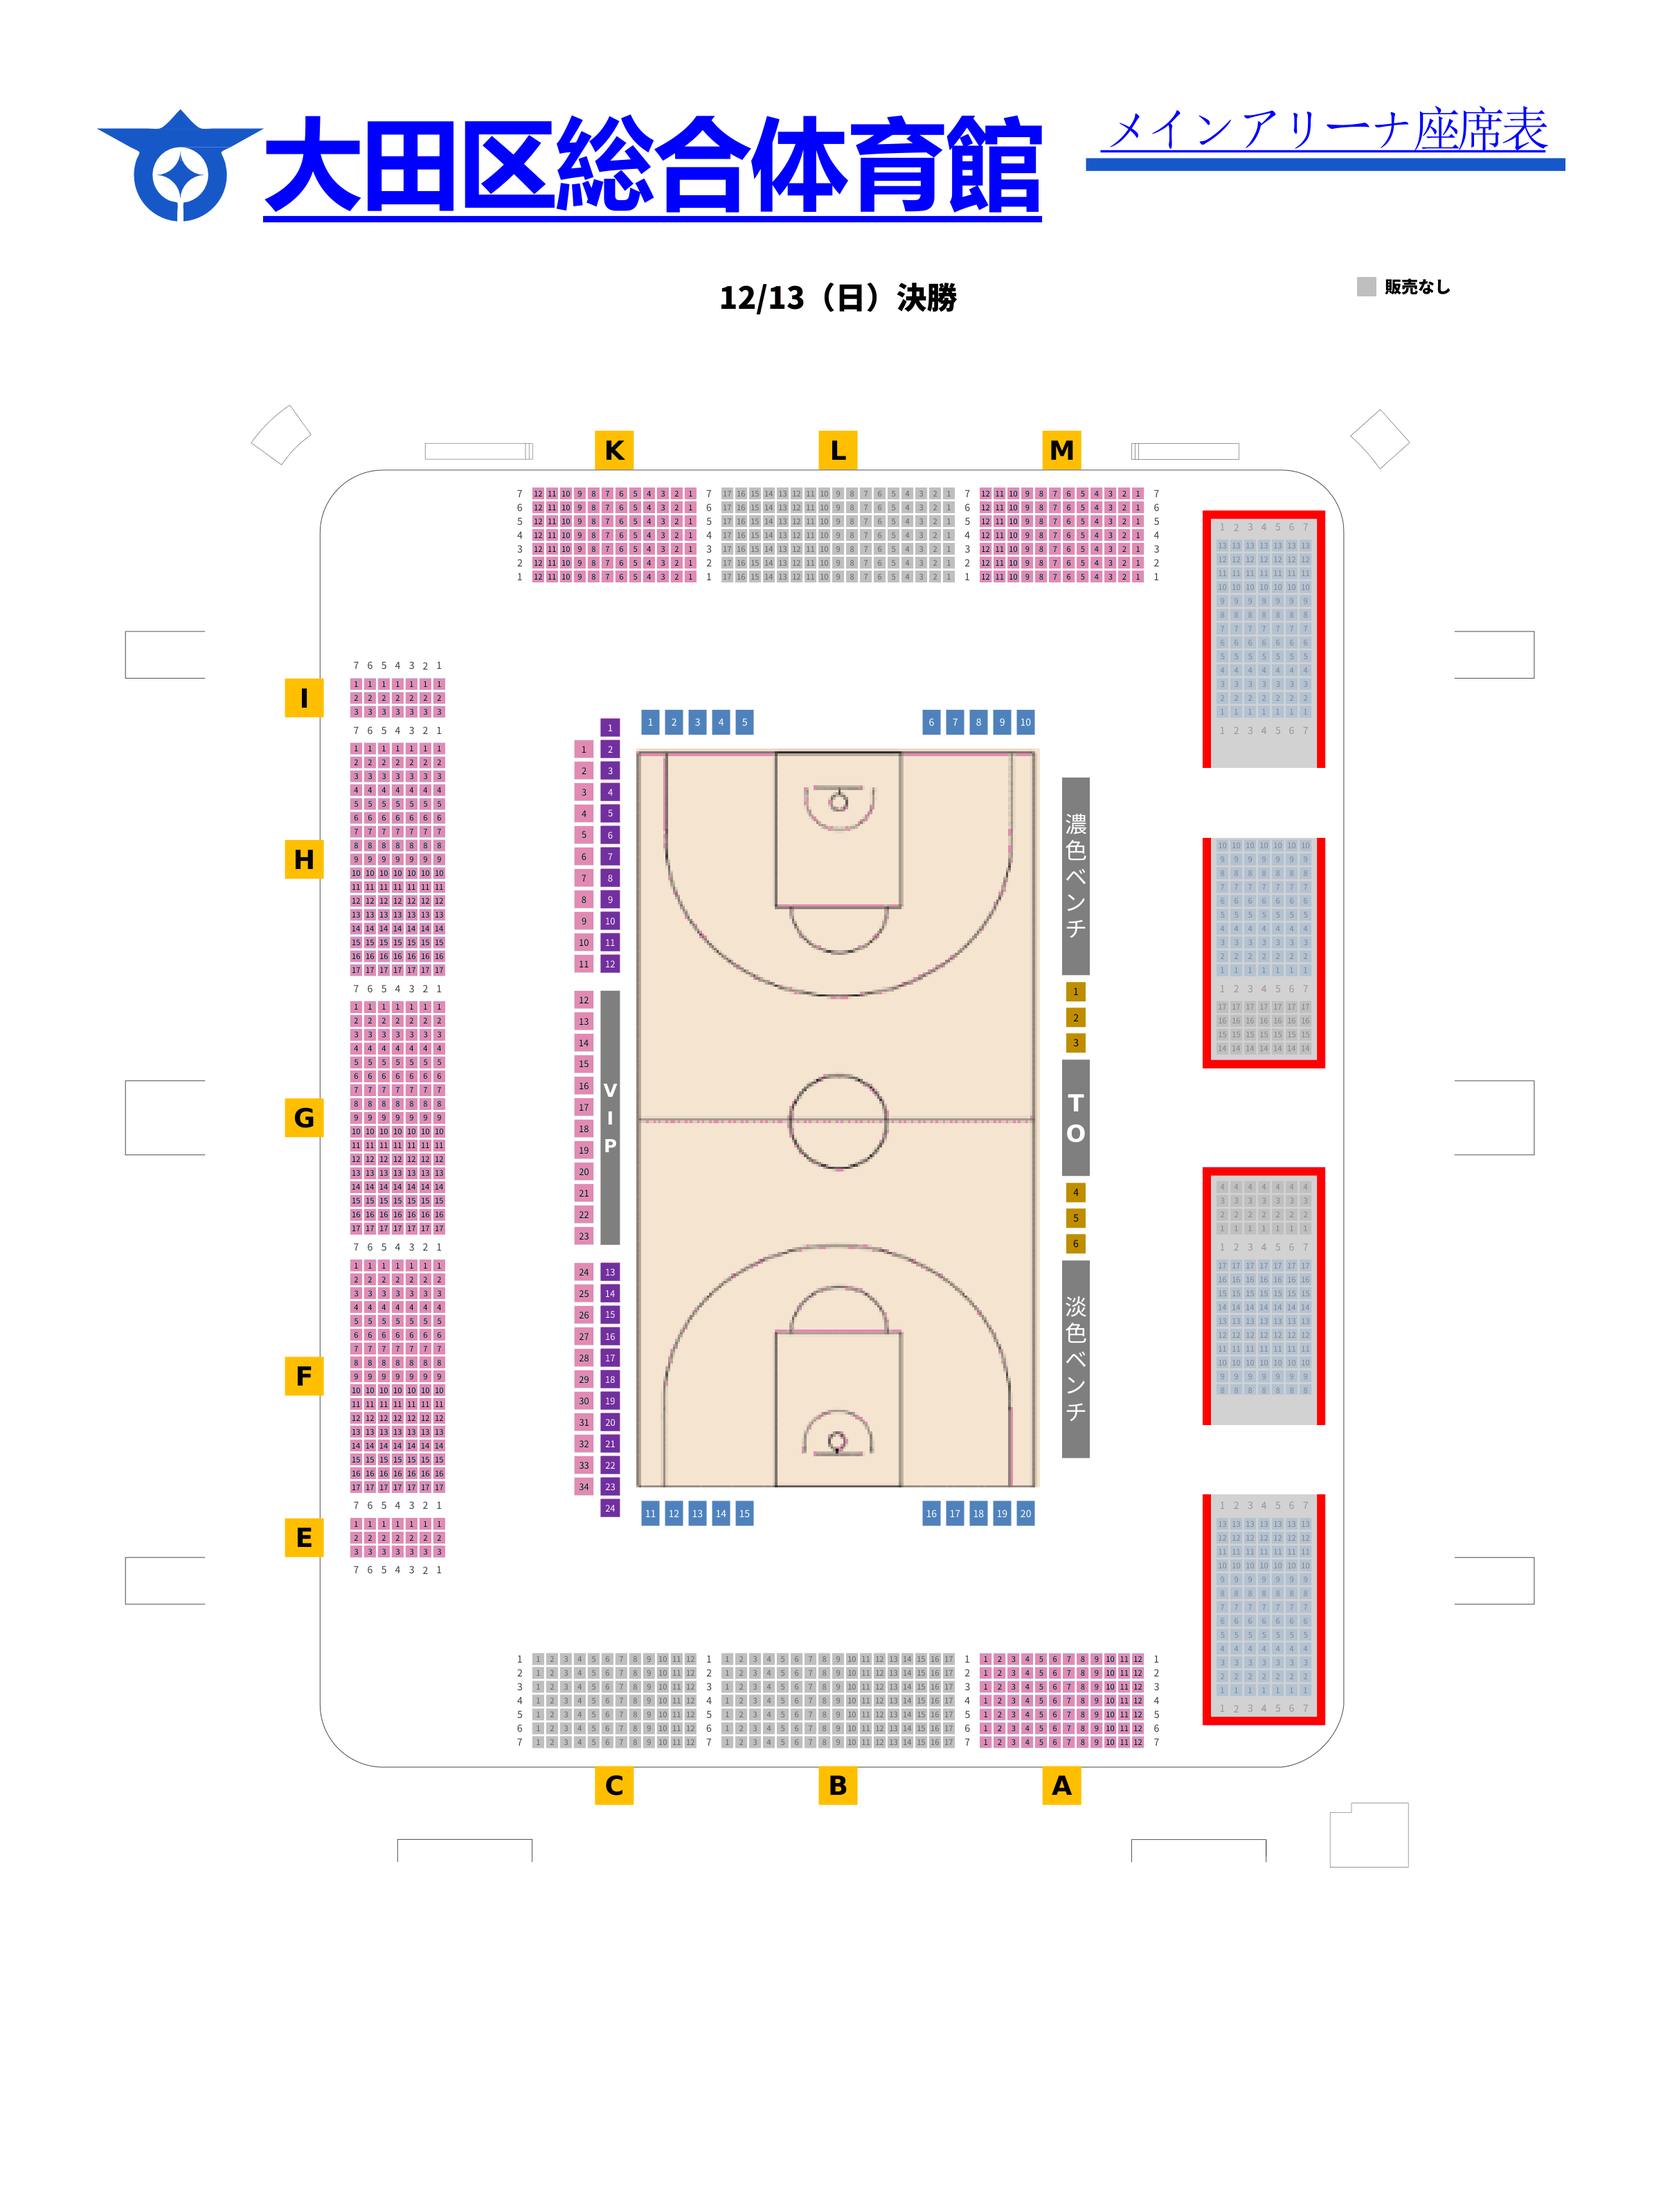
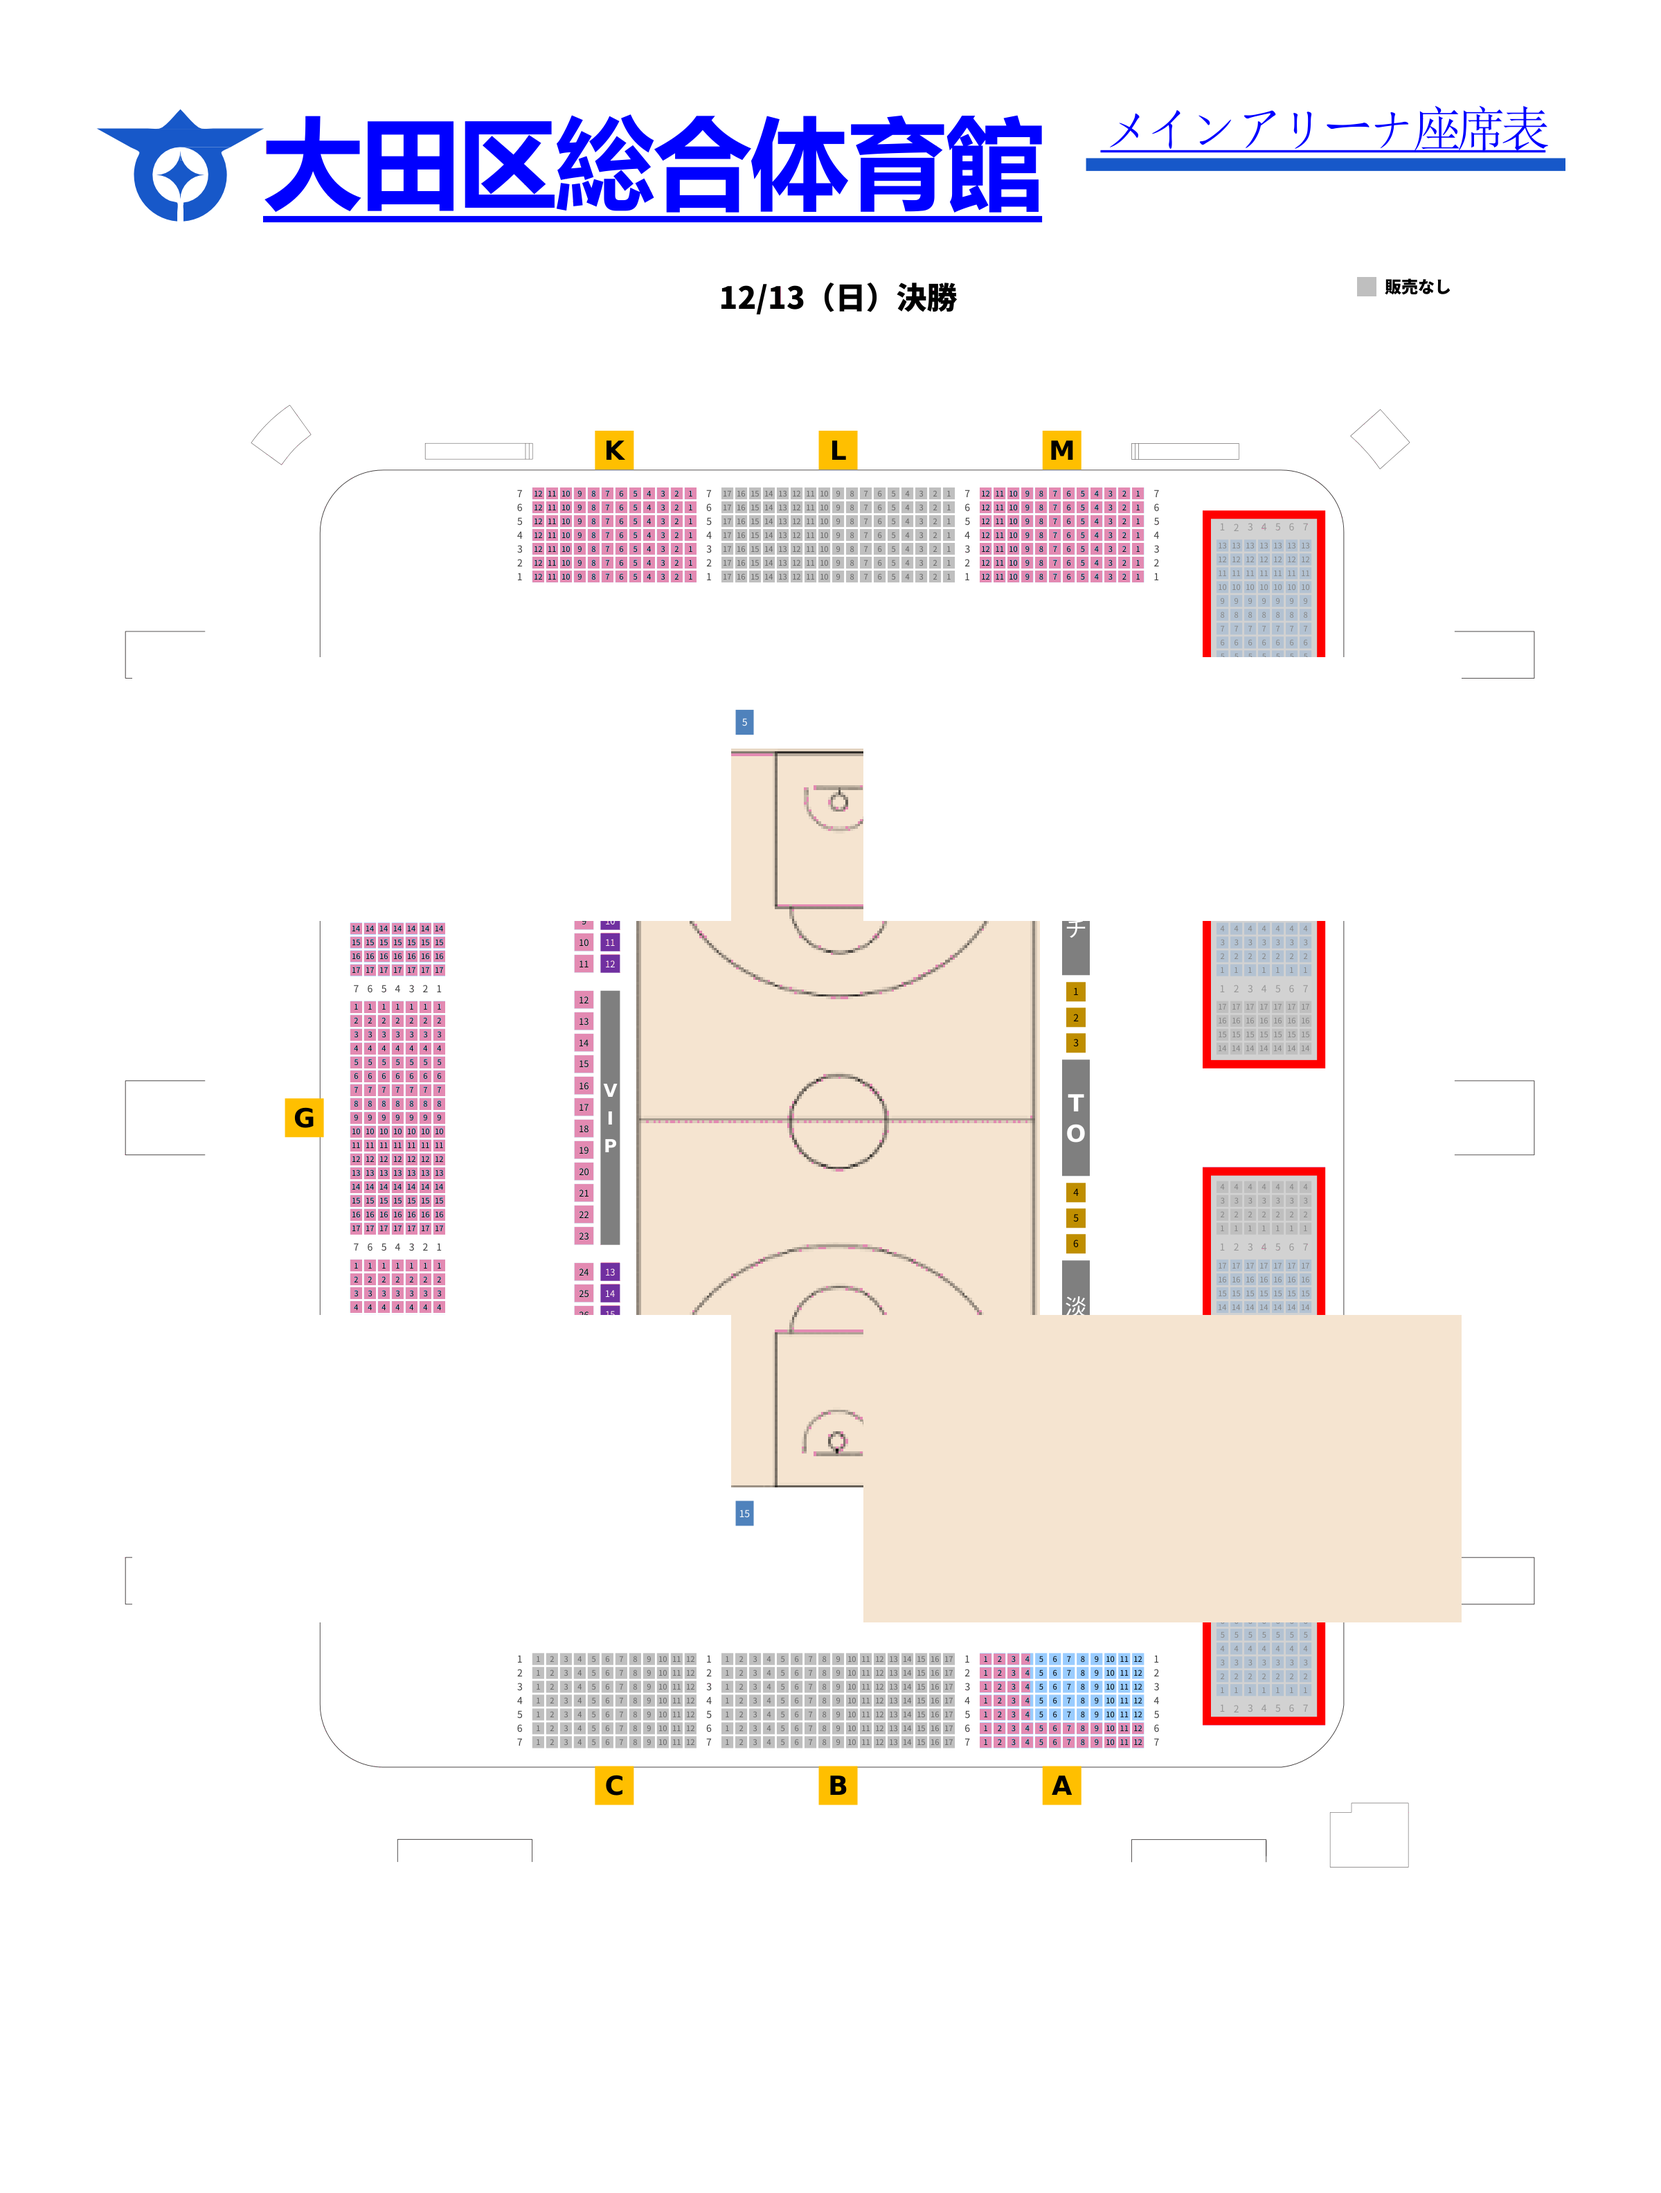
ずれた販売不可オーバーレイを撤去、チーム券エリアのピンク化を防止

diff --git a/src/components/SeatMap.tsx b/src/components/SeatMap.tsx
@@ -1,12 +1,4 @@
-import { useCallback, useEffect, useMemo, useRef, useState } from 'react'
-import {
-  mergeSeatRectsByZone,
-  NON_SELLABLE_ZONE_LABEL,
-  nonSellableZonesForEvent,
-  nonSellableZoneStyle,
-  seatsForNonSellableOverlay,
-  mergeOptionsForOverlay,
-} from '../lib/nonSellableRegions'
+import { useCallback, useEffect, useRef, useState } from 'react'
 import { INCARE_LABELS } from '../lib/incarePalette'
 import { isSeatSellable, isSold, seatOverlayClass } from '../lib/seatStatus'
 import type { SeatWithState, VenueEvent } from '../types'
@@ -143,43 +135,13 @@ export function SeatMap({
   const bgSrc =
     event.background_path ?? `/backgrounds/${event.slug}.png`
 
-  const nonSellableRegions = useMemo(() => {
-    const zones = nonSellableZonesForEvent(event.slug)
-    return zones.flatMap((zone) => {
-      const subset = seatsForNonSellableOverlay(event.slug, zone, seats)
-      const { gap, maxVerticalSep } = mergeOptionsForOverlay(
-        event.slug,
-        zone,
-      )
-      return mergeSeatRectsByZone(subset, zone, gap, maxVerticalSep).map(
-        (rect) => ({
-          zone,
-          rect,
-          label: NON_SELLABLE_ZONE_LABEL[zone] ?? '販売しません',
-        }),
-      )
-    })
-  }, [event.slug, seats])
-
   return (
     <div className="flex min-h-[50vh] flex-1 flex-col rounded-lg border border-slate-200 bg-white">
       <p className="border-b border-slate-200 px-3 py-1.5 text-xs text-slate-500">
-        色は料金表 PPTX と統一（
-        {INCARE_LABELS.floor1}
-        ＝
-        <span className="font-medium text-incare-floor1">■</span>
-        、
-        {INCARE_LABELS.floor2}
-        ＝
-        <span className="text-incare-floor2">■</span>
-        、
-        {INCARE_LABELS.teamTicket}
-        ＝
-        <span className="text-incare-team">■</span>
-        ）。空席は図面色のまま。
+        図面の色＝販売区分（{INCARE_LABELS.floor1}＝ピンク / 灰色＝
+        {INCARE_LABELS.floor2}・{INCARE_LABELS.teamTicket}）。凡例を参照。空席は色を重ねません。
       </p>
       <div className="flex-1 overflow-auto p-2">
-        {/* inline-block で img の表示サイズと席オーバーレイを完全一致 */}
         <div
           className="mx-auto inline-block max-w-full align-top"
           onPointerDown={handlePointerDown}
@@ -212,33 +174,6 @@ export function SeatMap({
             )}
 
             <div className="pointer-events-none absolute inset-0">
-              {!moveLayoutMode &&
-                nonSellableRegions.map((region, idx) => {
-                  const style = nonSellableZoneStyle(region.zone)
-                  return (
-                    <div
-                      key={`ns-${region.zone}-${idx}`}
-                      className="absolute flex items-center justify-center overflow-hidden border-2 border-dashed"
-                      style={{
-                        left: `${region.rect.x * 100}%`,
-                        top: `${region.rect.y * 100}%`,
-                        width: `${region.rect.w * 100}%`,
-                        height: `${region.rect.h * 100}%`,
-                        borderColor: style.borderColor,
-                        backgroundColor: style.background,
-                        backgroundImage: style.stripe,
-                      }}
-                    >
-                      <span
-                        className="max-w-[92%] rounded-md bg-white/92 px-2 py-1 text-center text-[10px] font-bold leading-tight shadow-sm sm:text-xs"
-                        style={{ color: '#262626' }}
-                      >
-                        {region.label}
-                      </span>
-                    </div>
-                  )
-                })}
-
               {seats.map((seat) => {
                 const preview = movePreview?.[seat.id]
                 const sx = preview?.x ?? seat.x

diff --git a/src/App.tsx b/src/App.tsx
@@ -195,8 +195,8 @@ function App() {
 
           <p className="text-sm text-slate-600">
             <strong>{INCARE_LABELS.floor1}</strong>
-            だけ販売・案内対象（色は料金表 PPTX と統一）。{INCARE_LABELS.floor2}・
-            {INCARE_LABELS.teamTicket}は図面上で明示。販売済は灰色で重ねます。
+            （ピンク）だけ販売・案内対象。灰色＝{INCARE_LABELS.floor2}・
+            {INCARE_LABELS.teamTicket}（販売なし）。凡例参照。販売済は薄灰で重ねます。
           </p>
 
           <div className="flex flex-wrap items-center gap-2">

diff --git a/scripts/convert_pdfs.py b/scripts/convert_pdfs.py
@@ -26,52 +26,112 @@ DATE_MAP = {
 
 from incare_palette import FLOOR1_PINK  # noqa: E402
 
+REDACT_TEXT_PARTS = (
+    "ベンチ外",
+    "メンバー",
+    "チーム券",
+    "チーム席",
+    "濃色",
+    "淡色",
+    "販売しません",
+)
+
+# 大田区: コート横の説明文字帯（正規化 0–1）
+OTA_LABEL_STRIPS = [
+    (0.52, 0.30, 0.88, 0.42),
+    (0.52, 0.60, 0.88, 0.74),
+    (0.08, 0.30, 0.44, 0.42),
+    (0.08, 0.60, 0.44, 0.74),
+]
+
+# 駒沢: 1階脇の縦ラベル帯
+KOMORI_LABEL_STRIPS = [
+    (0.0, 0.26, 0.055, 0.86),
+    (0.945, 0.26, 1.0, 0.86),
+]
+
 
 def is_ota_floor1_blue(r: int, g: int, b: int) -> bool:
-    """会場総合図の水色 1 階席塗り → 料金表 PPTX の 1 階指定席色へ"""
     return 140 <= r <= 175 and 188 <= g <= 225 and b >= 238
 
 
+def is_ota_team_zone_norm(nx: float, ny: float) -> bool:
+    if nx < 0.62:
+        return False
+    return (0.275 <= ny <= 0.485) or (0.575 <= ny <= 0.785)
+
+
 def is_pdf_floor1_pink(r: int, g: int, b: int) -> bool:
-    """駒オリ PDF 上の 1 階ピンク（PPTX #E38AB2 に揃える）"""
     if abs(r - FLOOR1_PINK[0]) <= 8 and abs(g - FLOOR1_PINK[1]) <= 8 and abs(b - FLOOR1_PINK[2]) <= 8:
         return True
     return r >= 200 and 130 <= g <= 200 and b >= 160
 
 
-REDACT_LABEL_PARTS = ("ベンチ外", "メンバー", "チーム券席")
+def _sample_fill(im, px0: int, py0: int, pw: int, ph: int) -> tuple[int, int, int]:
+    w, h = im.size
+    sx = min(w - 1, max(0, px0))
+    sy = min(h - 1, max(0, py0 - 4))
+    return im.getpixel((sx, sy))
 
 
-def redact_pdf_labels(page: fitz.Page, path: Path, scale: float = 2.0) -> None:
-    """図面上のベンチ外・メンバー・チーム券席などの文字を消す"""
+def _paint_rect(
+    draw,
+    im,
+    x0: float,
+    y0: float,
+    x1: float,
+    y1: float,
+    pw: float,
+    ph: float,
+    scale: float,
+) -> None:
+    w, h = im.size
+    px0 = max(0, int(x0 * pw * scale))
+    py0 = max(0, int(y0 * ph * scale))
+    px1 = min(w, int(x1 * pw * scale))
+    py1 = min(h, int(y1 * ph * scale))
+    fill = _sample_fill(im, px0, py0, pw, ph)
+    draw.rectangle([px0, py0, px1, py1], fill=fill)
+
+
+def redact_map_labels(page: fitz.Page, path: Path, slug: str, scale: float = 2.0) -> None:
     try:
         from PIL import Image, ImageDraw
     except ImportError:
         return
     im = Image.open(path).convert("RGB")
     draw = ImageDraw.Draw(im)
-    w, h = im.size
+    pw, ph = page.rect.width, page.rect.height
+
+    strips = []
+    if slug in ("2025-12-12", "2025-12-13"):
+        strips.extend(OTA_LABEL_STRIPS)
+    if slug == "2025-12-11":
+        strips.extend(KOMORI_LABEL_STRIPS)
+
+    for x0, y0, x1, y1 in strips:
+        _paint_rect(draw, im, x0, y0, x1, y1, pw, ph, scale)
+
     for block in page.get_text("dict").get("blocks", []):
         if block.get("type") != 0:
             continue
         for line in block.get("lines", []):
-            for span in line.get("spans", []):
-                text = span.get("text", "")
-                if not any(part in text for part in REDACT_LABEL_PARTS):
-                    continue
-                x0, y0, x1, y1 = span["bbox"]
-                px0 = max(0, int(x0 * scale) - 4)
-                py0 = max(0, int(y0 * scale) - 3)
-                px1 = min(w - 1, int(x1 * scale) + 4)
-                py1 = min(h - 1, int(y1 * scale) + 3)
-                sample_y = max(0, py0 - 2)
-                sample_x = min(w - 1, max(0, px0))
-                fill = im.getpixel((sample_x, sample_y))
-                draw.rectangle([px0, py0, px1, py1], fill=fill)
+            line_text = "".join(s.get("text", "") for s in line.get("spans", []))
+            if not any(part in line_text for part in REDACT_TEXT_PARTS):
+                continue
+            x0, y0, x1, y1 = line["bbox"]
+            pad_x, pad_y = 8, 6
+            px0 = max(0, int(x0 * scale) - pad_x)
+            py0 = max(0, int(y0 * scale) - pad_y)
+            px1 = min(im.size[0], int(x1 * scale) + pad_x)
+            py1 = min(im.size[1], int(y1 * scale) + pad_y)
+            fill = _sample_fill(im, px0, py0, pw, ph)
+            draw.rectangle([px0, py0, px1, py1], fill=fill)
+
     im.save(path)
 
 
-def recolor_floor1_to_pptx_pink(path: Path) -> None:
+def recolor_floor1_to_pptx_pink(path: Path, slug: str) -> None:
     try:
         from PIL import Image
     except ImportError:
@@ -82,7 +142,11 @@ def recolor_floor1_to_pptx_pink(path: Path) -> None:
     w, h = im.size
     changed = 0
     for y in range(h):
+        ny = y / h
         for x in range(w):
+            nx = x / w
+            if slug in ("2025-12-12", "2025-12-13") and is_ota_team_zone_norm(nx, ny):
+                continue
             r, g, b = px[x, y]
             if is_ota_floor1_blue(r, g, b) or is_pdf_floor1_pink(r, g, b):
                 px[x, y] = FLOOR1_PINK
@@ -117,18 +181,19 @@ def main() -> None:
         doc = fitz.open(pdf)
         page = doc[0]
         pw, ph = page.rect.width, page.rect.height
-        # 色再現優先: RGB・注釈込み・2倍解像度（表示サイズは page 座標のまま）
         mat = fitz.Matrix(2, 2)
         pix = page.get_pixmap(
             matrix=mat,
             alpha=False,
-            annots=True,
+            annots=False,
             colorspace=fitz.csRGB,
         )
         pix.save(out)
-        redact_pdf_labels(page, out, scale=2.0)
         doc.close()
-        recolor_floor1_to_pptx_pink(out)
+        recolor_floor1_to_pptx_pink(out, slug)
+        doc = fitz.open(pdf)
+        redact_map_labels(doc[0], out, slug, scale=2.0)
+        doc.close()
         meta = {
             "slug": slug,
             "page_width": pw,

diff --git a/scripts/extract_seats_from_pdf.py b/scripts/extract_seats_from_pdf.py
@@ -114,17 +114,18 @@ def classify_seat(
 
 
 def refine_ota_team_zones(seats: list[dict]) -> None:
+    """チーム券は灰色席のみ（ピンク1階は触らない）"""
     for s in seats:
         if s["zone"] == "floor1":
             continue
         cx = s["x"] + s["w"] / 2
         cy = s["y"] + s["h"] / 2
         in_team = is_ota_team_zone(cx, cy)
-        if in_team:
-            s["zone"] = "team_ticket"
-            s["sellable"] = False
-        elif s["zone"] == "team_ticket":
+        if s["zone"] == "team_ticket" and not in_team:
             s["zone"] = "floor2"
+            s["sellable"] = False
+        elif in_team and s["zone"] == "floor2":
+            s["zone"] = "team_ticket"
             s["sellable"] = False
 
 
